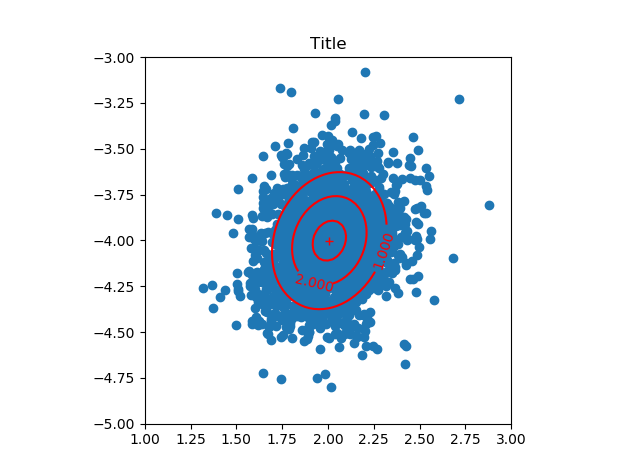
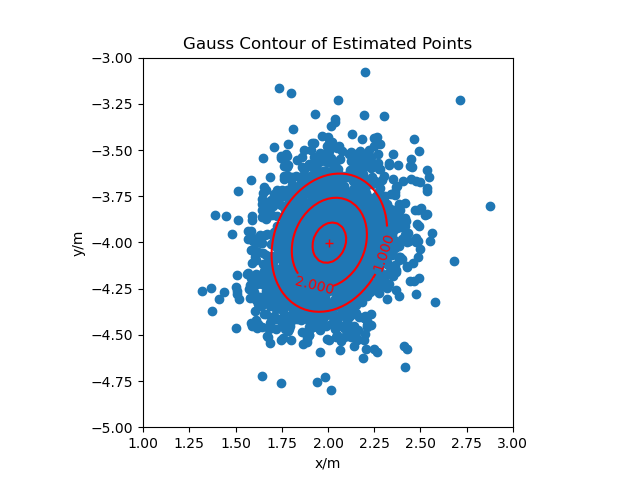
added titles and labels to plots + added cdf plots

diff --git a/skeleton_HW1.py b/skeleton_HW1.py
@@ -14,7 +14,7 @@ from copy import copy, deepcopy
 import statistics
 
 scenario = 0
-GN_mod = True # Used for 3.2: if True neglect the exp. distr. anchor to analyze differences
+GN_mod = False # Used for 3.2: if True neglect the exp. distr. anchor to analyze differences
 
 #--------------------------------------------------------------------------------
 # Assignment 1
@@ -22,8 +22,8 @@ def main():
     global scenario
     # choose the scenario
     # scenario = 1    # all anchors are Gaussian
-    scenario = 2    # 1 anchor is exponential, 3 are Gaussian
-    #scenario = 3    # all anchors are exponential
+    # scenario = 2    # 1 anchor is exponential, 3 are Gaussian
+    scenario = 3    # all anchors are exponential
     
     # specify position of anchors
     p_anchor = np.array([[5,5],[-5,5],[-5,-5],[5,-5]])
@@ -86,7 +86,7 @@ def parameter_estimation(reference_measurement,nr_anchors,p_anchor,p_ref):
                   color='skyblue',
                   hist_kws={"linewidth": 15,'alpha':1})
         ax.set(xlabel='Given Distribution', ylabel='Frequency')
-        plt.show() 
+        plt.show()
     #TODO (2) estimate the according parameter based
     t_reference_measurement = np.transpose(reference_measurement)
     t_reference_measurement_size = np.size(t_reference_measurement[0],0)
@@ -137,17 +137,26 @@ def position_estimation_least_squares(data,nr_anchors,p_anchor, p_true, use_expo
     print(statistics.mean(errors))
     print(statistics.variance(errors))
 
+    plt.scatter(results[:,0],results[:,1])
+    plt.title('Estimation of Points')
+    plt.ylabel('y/m')
+    plt.xlabel('x/m')
+    plt.show()
+
     # plot with anchor, p_true and estimated points
-    # plt.scatter(results[:,0],results[:,1])
     
     plot_anchors_and_agent(nr_anchors, p_anchor, p_true)
     plt.scatter(results[:,0],results[:,1], c='green')
+    plt.title('Estimation of Points')
     plt.axis([-8, 8, -8, 8])
 
     plt.show()
 
     Fx,x = ecdf(errors)
     plt.plot(x, Fx)
+    plt.title('CDF - Estimastion of Points Error')
+    plt.ylabel('Cumulative Probability')
+    plt.xlabel('Squared error')
     plt.show()
     
     # plot with overlay of the contour plots over the estimated points
@@ -173,6 +182,9 @@ def position_estimation_least_squares(data,nr_anchors,p_anchor, p_true, use_expo
 
     plot_gauss_contour(mu, cov, xmin,xmax,ymin,ymax)
     plt.axis([xmin,xmax,ymin,ymax])
+    plt.title('Gauss Contour of Estimated Points')
+    plt.ylabel('y/m')
+    plt.xlabel('x/m')
     plt.scatter(results[:,0],results[:,1],)
     plt.show()
 
@@ -266,7 +278,7 @@ def partial(p_anchor, point):
         return Jf
 
 
-def plot_gauss_contour(mu,cov,xmin,xmax,ymin,ymax,title="Title"):
+def plot_gauss_contour(mu,cov,xmin,xmax,ymin,ymax):
     
     """ creates a contour plot for a bivariate gaussian distribution with specified parameters
     
@@ -287,7 +299,6 @@ def plot_gauss_contour(mu,cov,xmin,xmax,ymin,ymax,title="Title"):
     plt.gca().set_aspect("equal")
     CS = plt.contour(X, Y, Z.pdf(pos),3,colors='r')
     plt.clabel(CS, inline=1, fontsize=10)
-    plt.title(title)
     #plt.show()
     return
 
